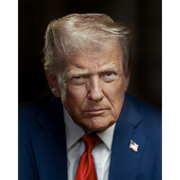
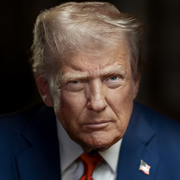
Crop portrait to remove black letterbox — all 1M cells now map to content
The original 3000×1688 portrait had ~100-cell-wide black letterbox bands
on the left and right (20% of the grid = 200,000 cells in pure black).
Customers buying those cells felt cheated — they weren't in the portrait.

Fix: crop the portrait to its content-only bounding box (825,112)→(2176,1463)
in the original image, producing a 1351×1351 square. coverCrop now maps
the full 1000×1000 grid to this square, so every cell is portrait pixels.
No code changes required — the image replacement is sufficient.

Seeded data (cells 0…N) no longer needs remapping: cell 0 is now the
top-left of the portrait content, not the black letterbox corner.

Also regenerates favicon/icons from the cropped portrait and updates
og:image dimensions from 3000×1688 → 1351×1351.

https://claude.ai/code/session_0116CCqvjfxKroX6b1U2ASkv

diff --git a/mosaic-site/src/app/layout.tsx b/mosaic-site/src/app/layout.tsx
@@ -20,8 +20,8 @@ export const metadata: Metadata = {
     images: [
       {
         url: "/trump-portrait.jpg",
-        width: 3000,
-        height: 1688,
+        width: 1351,
+        height: 1351,
         alt: "Trump Mosaic Portrait",
       },
     ],
